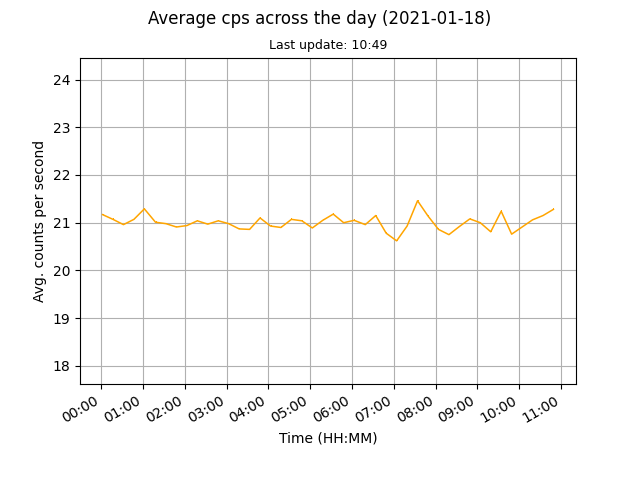
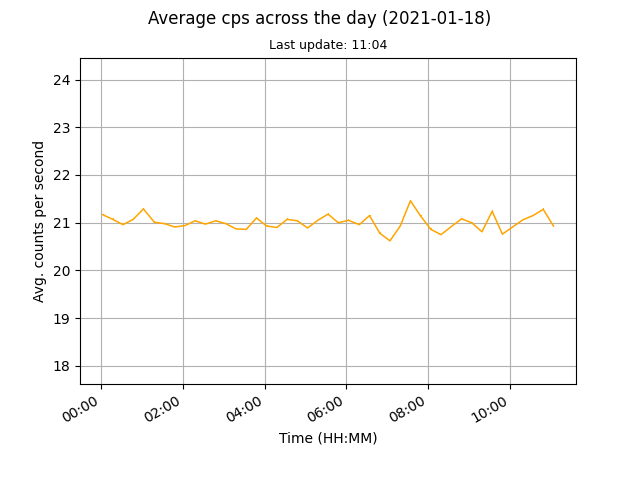
auto data update

diff --git a/docs/index.html b/docs/index.html
@@ -45,8 +45,8 @@
 	
 	<br>
 	
-	<p>Current counts per second (cps): 21.28</p>
-	<p>Last update: 2021-01-18, 10:50</p>
+	<p>Current counts per second (cps): 20.93</p>
+	<p>Last update: 2021-01-18, 11:05</p>
 
 	<p><a href="images/monthly.png"><img src="images/monthly.png" alt="Mothly avg cps data"></a><a href="images/daily.png"><img src="images/daily.png" alt="Daily avg cps data"></a></p>
 	
